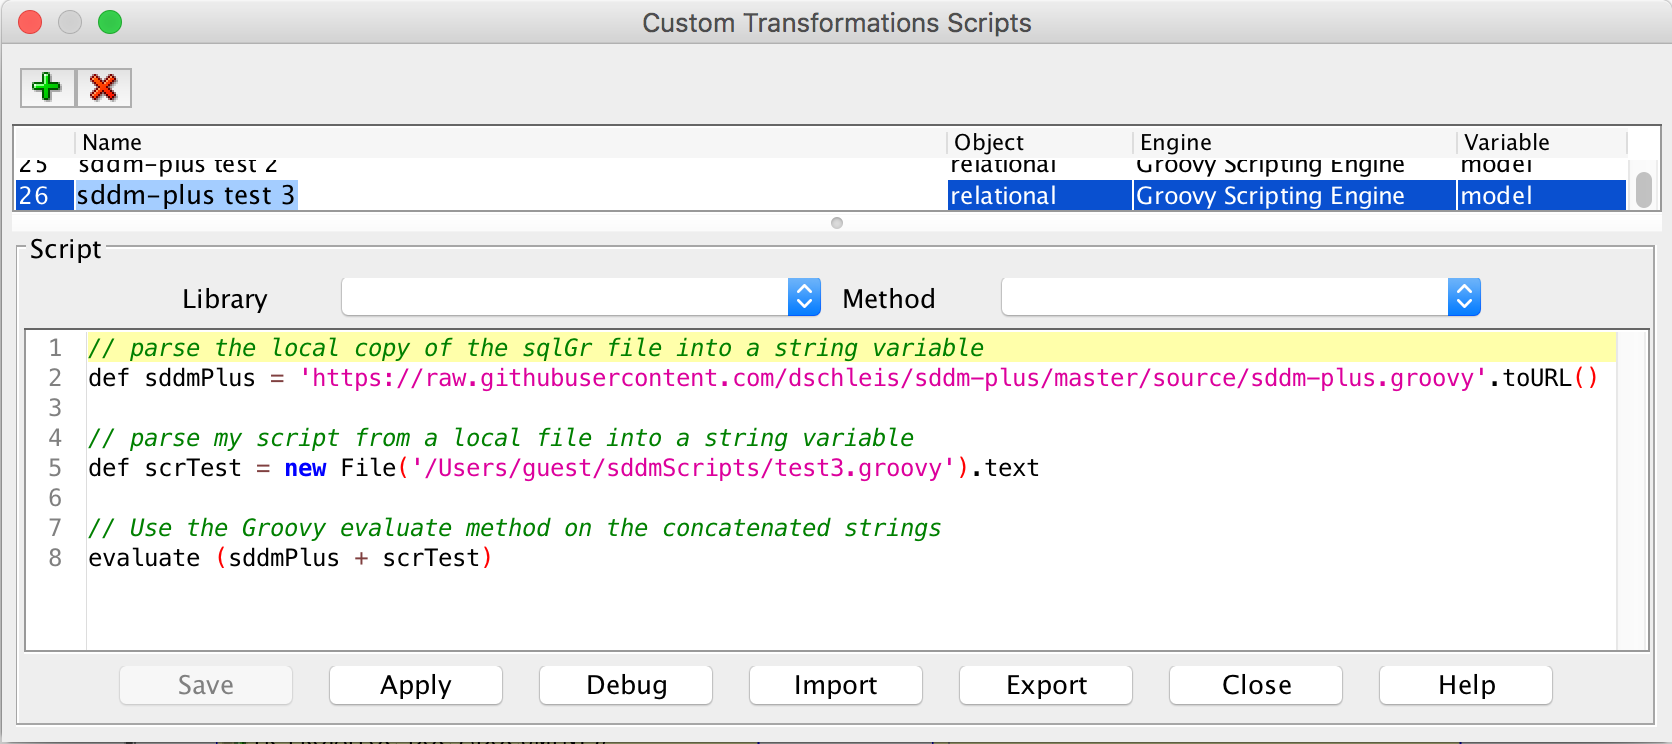
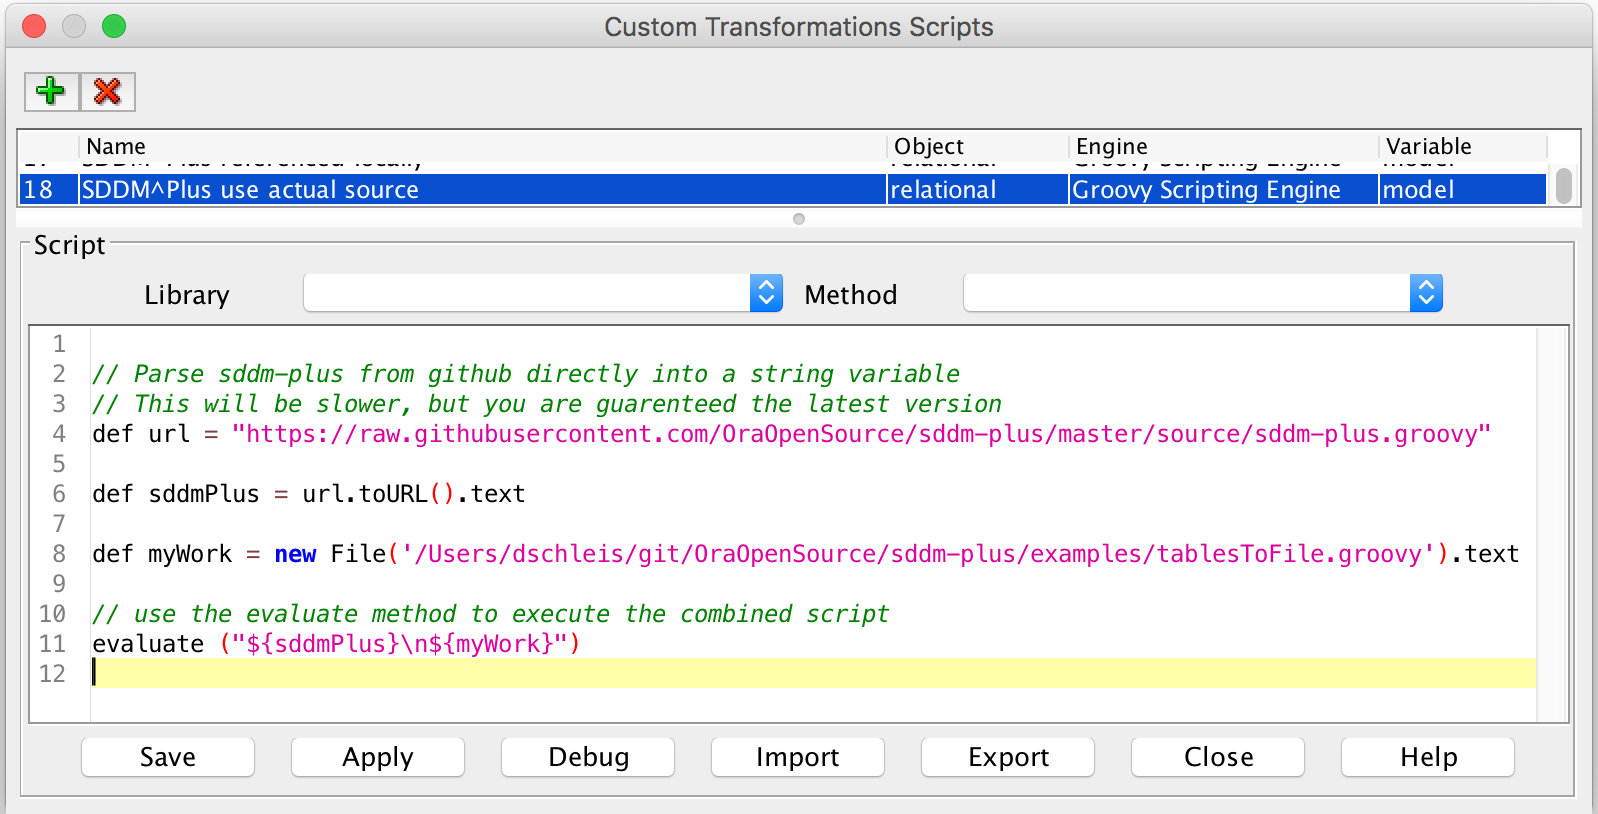
updated documentation removed unused meta method from table.

diff --git a/docs/using-sddm-plus.md b/docs/using-sddm-plus.md
@@ -3,7 +3,7 @@
 To take advantage of the SDDM^Plus  methods, the contents of sddm-plus.groovy must be included in the script that is run from within Data Modeler in some way.
 
 You can include sddm-plus.groovy can by:
-1. Appending the contents of sqlGr to your script
+1. Appending the contents of SDDM^Plus to your script
 ![](images/sddm-test-1.png)
 2. Concatenating your external script with a local copy of sddm-plus.groovy.
 ![](images/sddm-test-2.png)
@@ -20,8 +20,8 @@ evaluate (sddmPlus+scrTest)
 3. Concatenating your external script with the reference version of sddm-plus.groovy. This takes a bit longer to run, but you are guaranteed to have the latest version of the script helpers.
 ![](images/sddm-test-3.png)
 ```groovy
-// parse the local copy of the sqlGr file into a string variable
-def sddmPlus = 'https://raw.githubusercontent.com/dschleis/sddm-plus/master/source/sddm-plus.groovy'.toURL()
+// parse the local copy of the SDDM^Plus file into a string variable
+def sddmPlus = 'https://raw.githubusercontent.com/OraOpenSource/sddm-plus/master/source/sddm-plus.groovy'.toURL().text
 
 // parse my script from a local file into a string variable
 def scrTest = new File('/Users/guest/sddmScripts/test3.groovy').text
